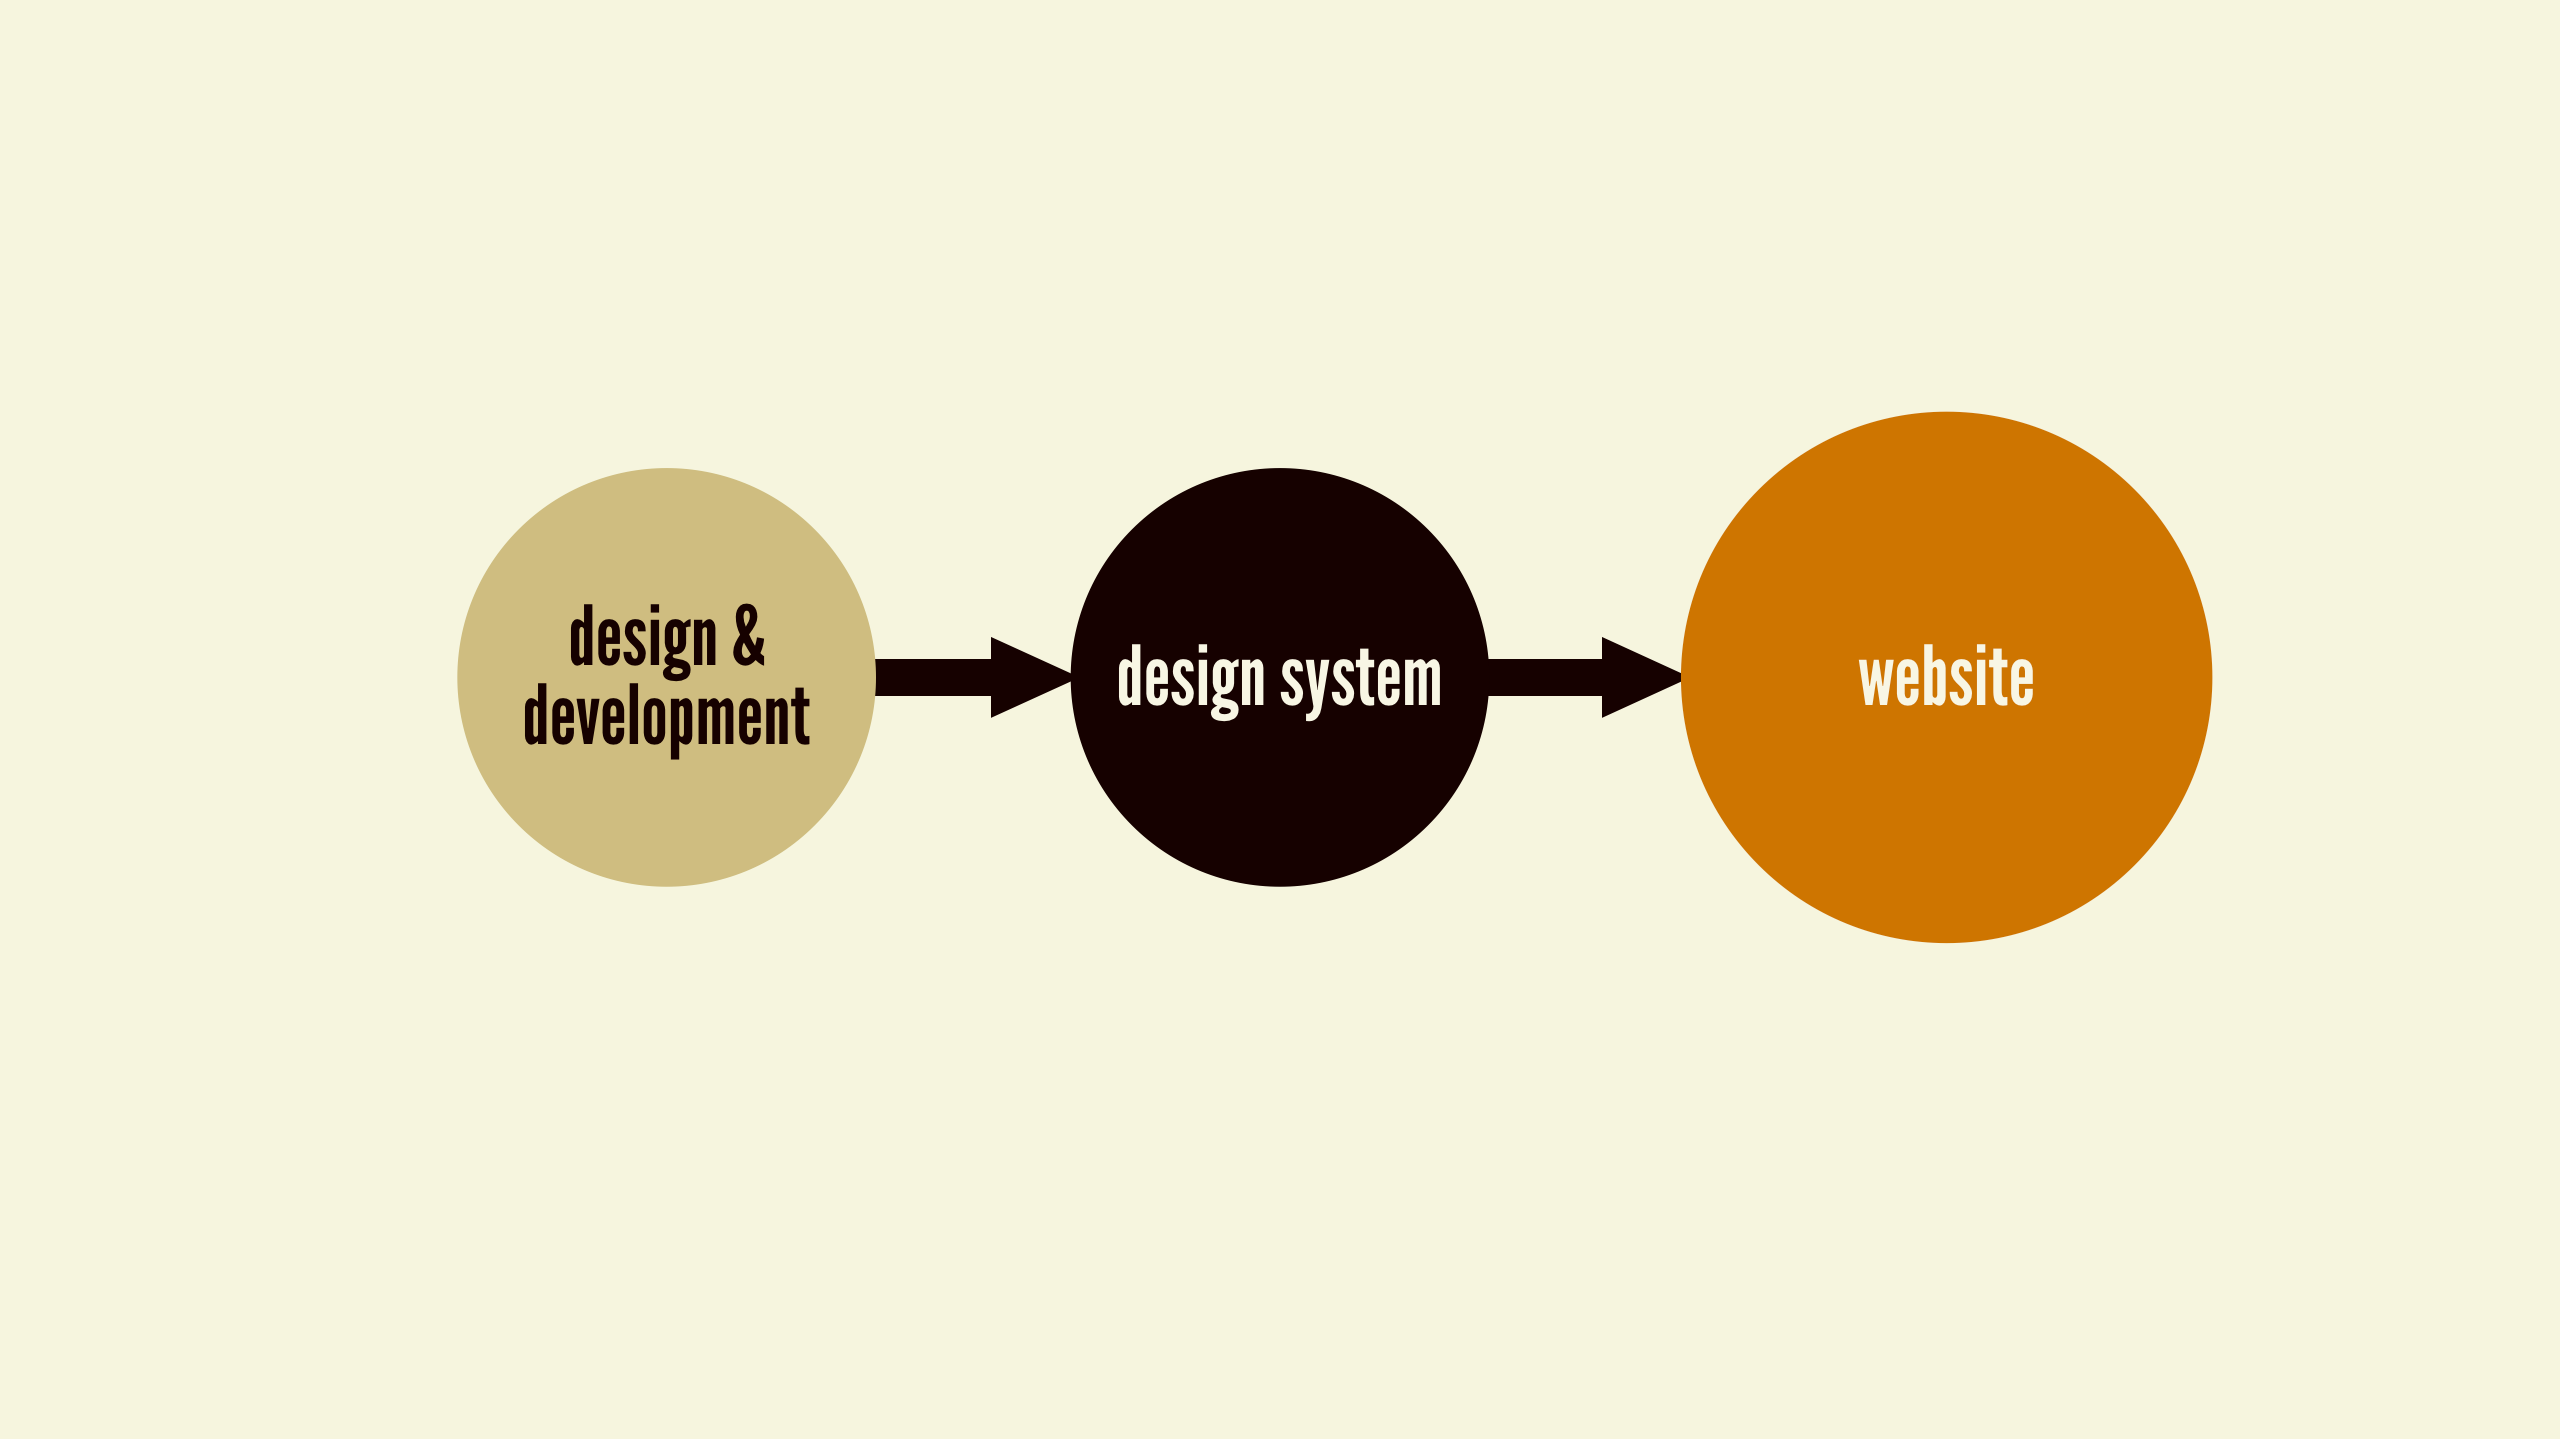
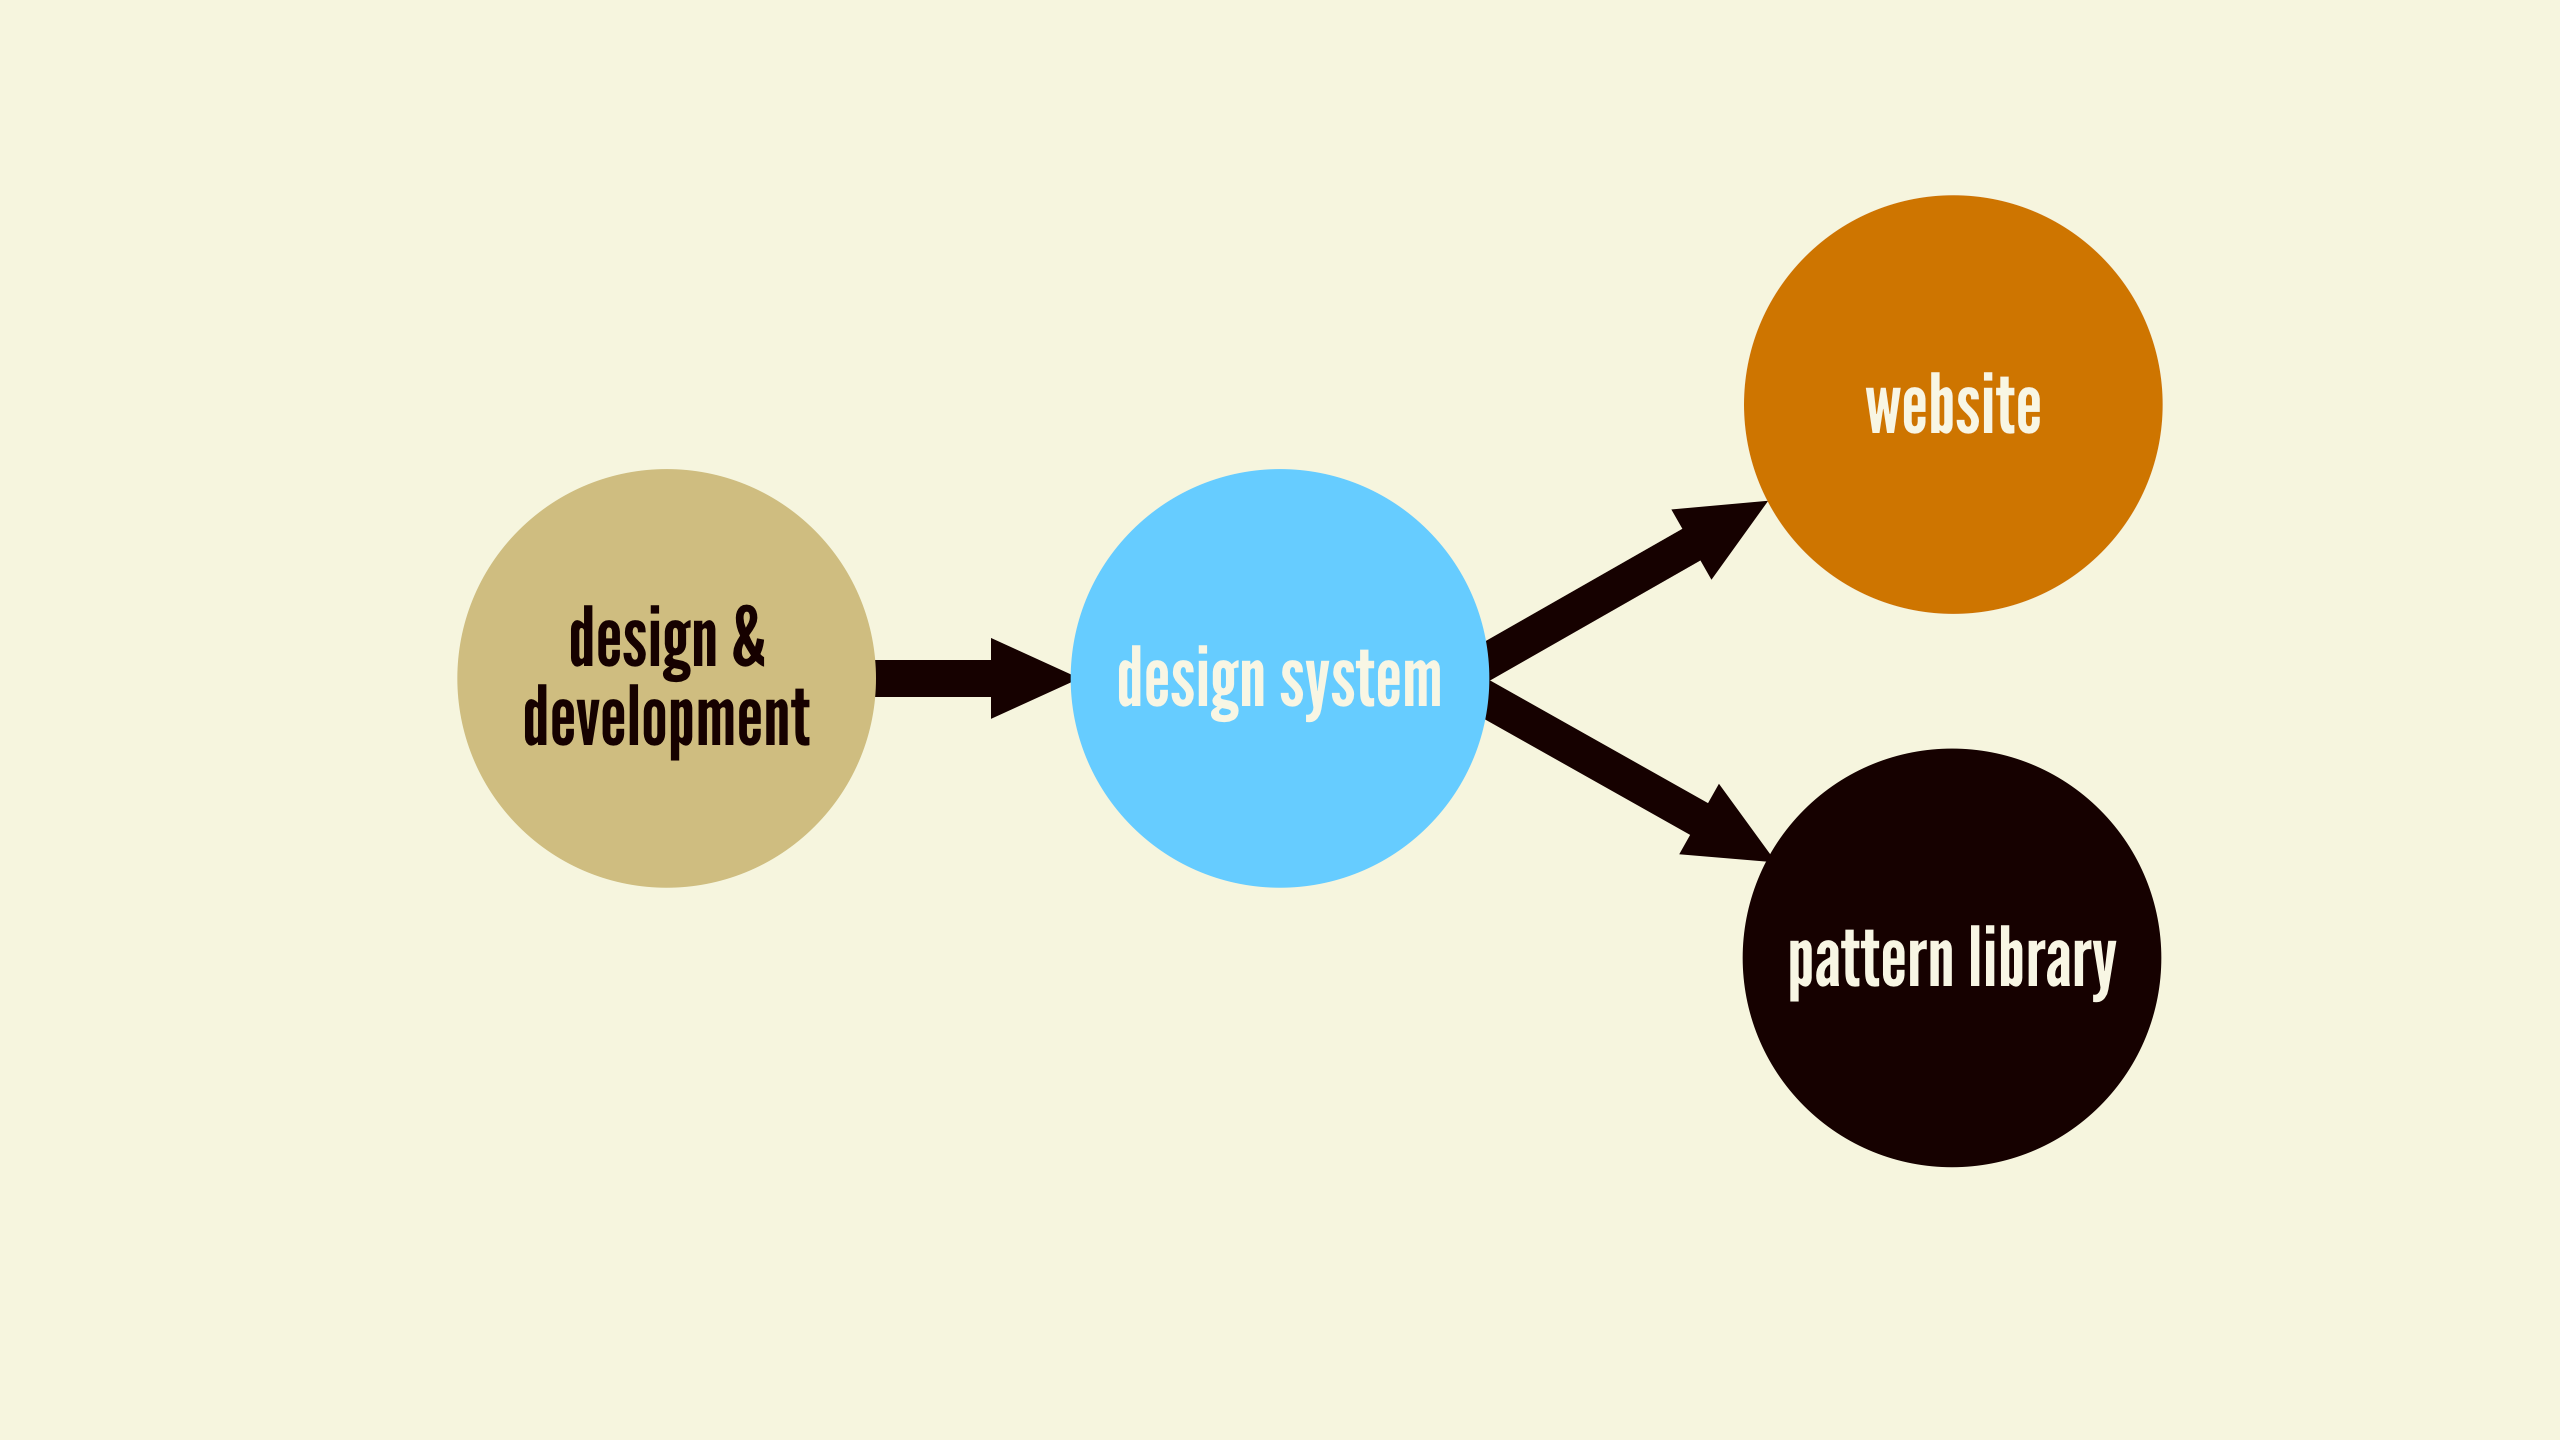
Chaper 5 draft
Resetting expectations

Changed region(s): [[0.4062, 0.1223, 0.875, 0.8256]]

diff --git a/_site/chapter-5/index.html b/_site/chapter-5/index.html
@@ -66,12 +66,11 @@
 
 <p>An <em>artifact</em> is something you’d find in an archaeological dig or a museum, whereas a <em>system</em> is a living, breathing entity. A pattern library can provide helpful documentation, but the simple existence of a pattern library doesn’t guarantee long-term success for the underlying design system. </p>
 
-<p>We’ve already discussed the importance of resetting everyone’s expectations in order to establish a more collaborative, pattern-driven workflow. In order to make successful, lasting design systems, we must once again fundamentally rewire people’s brains about the work we create.</p>
-
 <h2 id="changing-minds-once-again">Changing minds, once again</h2>
+<p>We’ve already discussed the importance of resetting everyone’s expectations in order to establish a more collaborative, pattern-driven workflow. In order to save our design systems from the trash can and craft successful, lasting design systems instead, we must once again fundamentally rewire people’s brains.</p>
 
-<h3 id="what-are-we-making-again">What are we making again?</h3>
-<p>We may <em>think</em> we primarily design and build websites. With this mental model, the website remains the primary focus of everyone’s attention, while the pattern library is an offshoot of the website providing helpful documentation for the final product.</p>
+<h3 id="what-is-it-were-making-again">What is it we’re making again?</h3>
+<p>We <em>think</em> we merely design and build websites. And that’s true for the most part. After all, that’s what our clients pay us to do, and the websites we create are the vehicles that generate money and success for an organization. So it seems natural to focus on the end product. With this mentality, the live website remains the primary focus of everyone’s attention, while any pattern library exists as an offshoot that provides helpful documentation for the final product.</p>
 
 <figure>
     <img src="../images/content/workflow-website-first.png" alt="" />
@@ -80,9 +79,11 @@
 	</figcaption>
 </figure>
 
-<p>With this mentality, you can almost see that pattern library snapping off and fading into the abyss. <strong>Once the pattern library ceases to reflect the current state of the live website, it becomes obsolete</strong>. And once the pattern library managing the design system is no longer relevant, the maintenance process for the website devolves into a cluster of hotfixes and ad hoc changes, ruining all then thoughtfulness that went into creating   the original design system.</p>
+<p>The problem with this mentality is that you can almost see that pattern library snapping off and sliding off into the abyss.  <strong>Once the pattern library ceases to reflect the current state of the live website, it becomes obsolete</strong>. And when the pattern library managing the design system is no longer accurate, the website maintenance process devolves into a smattering of hotfixes and ad hoc changes, ruining all the thoughtfulness that went into creating the original design system.</p>
 
-<p>In order to successfully maintain a successful design system, we must fundamentally shift our mentality around just what it is we’re creating. Rather than thinking our primary responsibility </p>
+<p>In order to set a design system for long-term success, we must fundamentally shift our mentality around just what exactly it is we’re creating. Rather than thinking of the final website our primary responsibility, we must recognize that the design system is what d</p>
+
+<p>The final website is still a priority, it’s just not the <em>only</em> priority. </p>
 
 <figure>
     <img src="../images/content/workflow-system-first.png" alt="" />

diff --git a/chapter-5.md b/chapter-5.md
@@ -18,19 +18,20 @@ Why does this happen?
 > A style guide is an artifact of design process. A design system is a living, funded product with a roadmap & backlog, serving an ecosystem. <cite>[Nathan Curtis](https://twitter.com/nathanacurtis/status/656829204235972608)</cite>
 
 An *artifact* is something you'd find in an archaeological dig or a museum, whereas a *system* is a living, breathing entity. A pattern library can provide helpful documentation, but the simple existence of a pattern library doesn't guarantee long-term success for the underlying design system. 
- 
-We've already discussed the importance of resetting everyone's expectations in order to establish a more collaborative, pattern-driven workflow. In order to make successful, lasting design systems, we must once again fundamentally rewire people's brains about the work we create.
 
 ## Changing minds, once again
+We've already discussed the importance of resetting everyone's expectations in order to establish a more collaborative, pattern-driven workflow. In order to save our design systems from the trash can and craft successful, lasting design systems instead, we must once again fundamentally rewire people's brains.
 
-### What are we making again?
-We may *think* we primarily design and build websites. With this mental model, the website remains the primary focus of everyone's attention, while the pattern library is an offshoot of the website providing helpful documentation for the final product.
+### What is it we're making again?
+We *think* we merely design and build websites. And that's true for the most part. After all, that's what our clients pay us to do, and the websites we create are the vehicles that generate money and success for an organization. So it seems natural to focus on the end product. With this mentality, the live website remains the primary focus of everyone's attention, while any pattern library exists as an offshoot that provides helpful documentation for the final product.
 
 {% include figure.html src="../images/content/workflow-website-first.png" caption="" %}
 
-With this mentality, you can almost see that pattern library snapping off and fading into the abyss. **Once the pattern library ceases to reflect the current state of the live website, it becomes obsolete**. And once the pattern library managing the design system is no longer relevant, the maintenance process for the website devolves into a cluster of hotfixes and ad hoc changes, ruining all then thoughtfulness that went into creating   the original design system.
+The problem with this mentality is that you can almost see that pattern library snapping off and sliding off into the abyss.  **Once the pattern library ceases to reflect the current state of the live website, it becomes obsolete**. And when the pattern library managing the design system is no longer accurate, the website maintenance process devolves into a smattering of hotfixes and ad hoc changes, ruining all the thoughtfulness that went into creating the original design system.
 
-In order to successfully maintain a successful design system, we must fundamentally shift our mentality around just what it is we’re creating. Rather than thinking our primary responsibility 
+In order to set a design system for long-term success, we must fundamentally shift our mentality around just what exactly it is we’re creating. Rather than thinking of the final website our primary responsibility, we must recognize that the design system is what d
+
+The final website is still a priority, it's just not the _only_ priority. 
 
 {% include figure.html src="../images/content/workflow-system-first.png" caption="" %}
 
